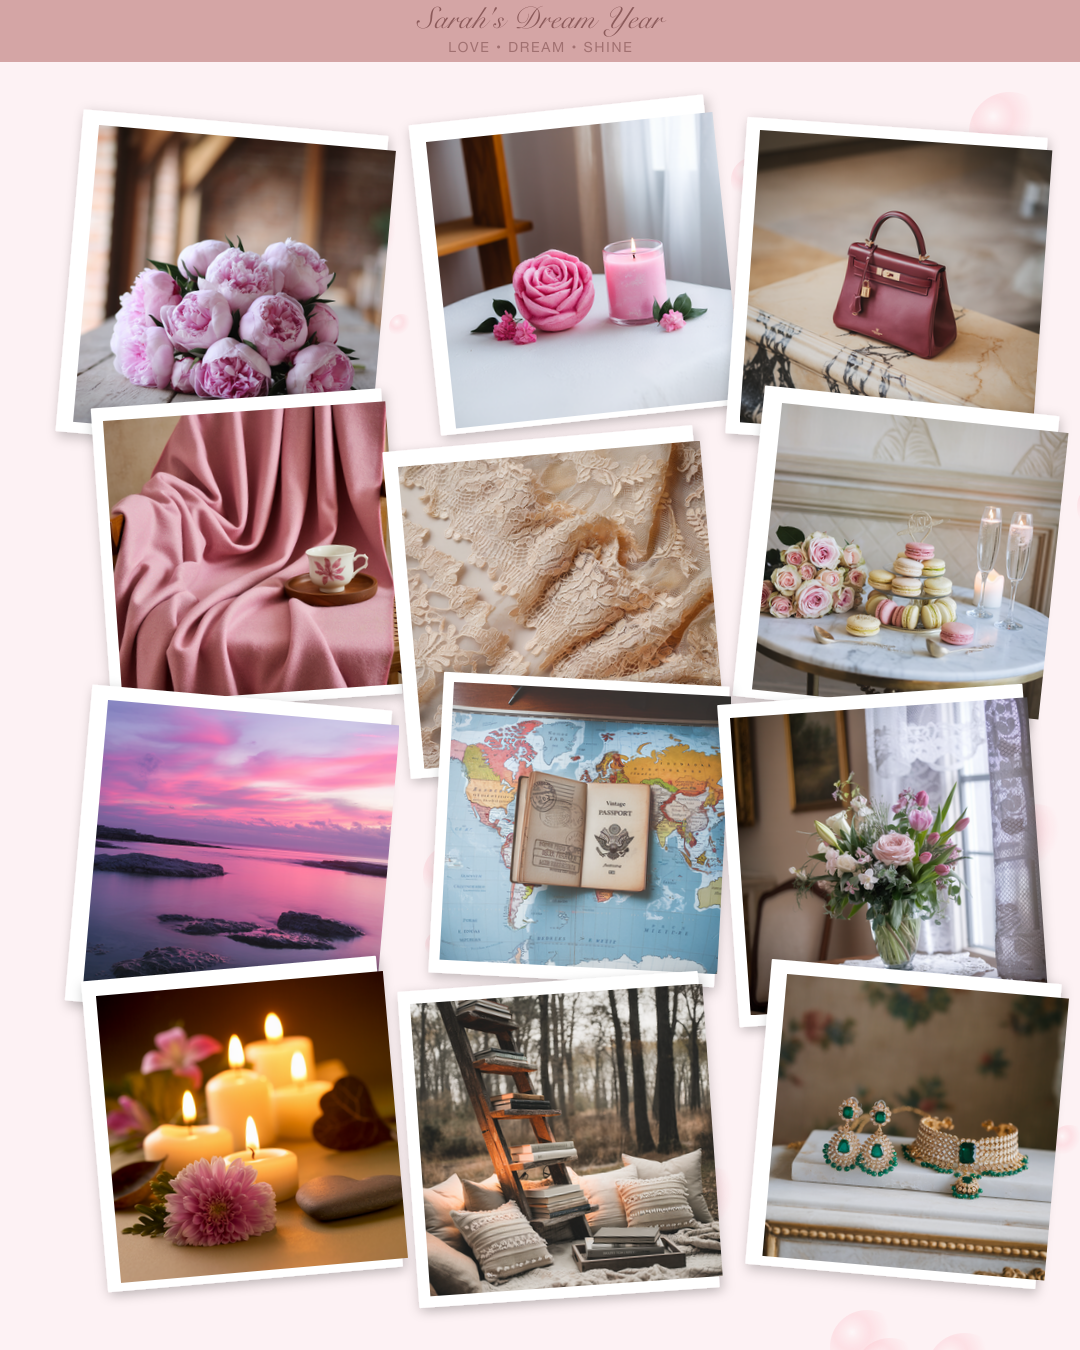
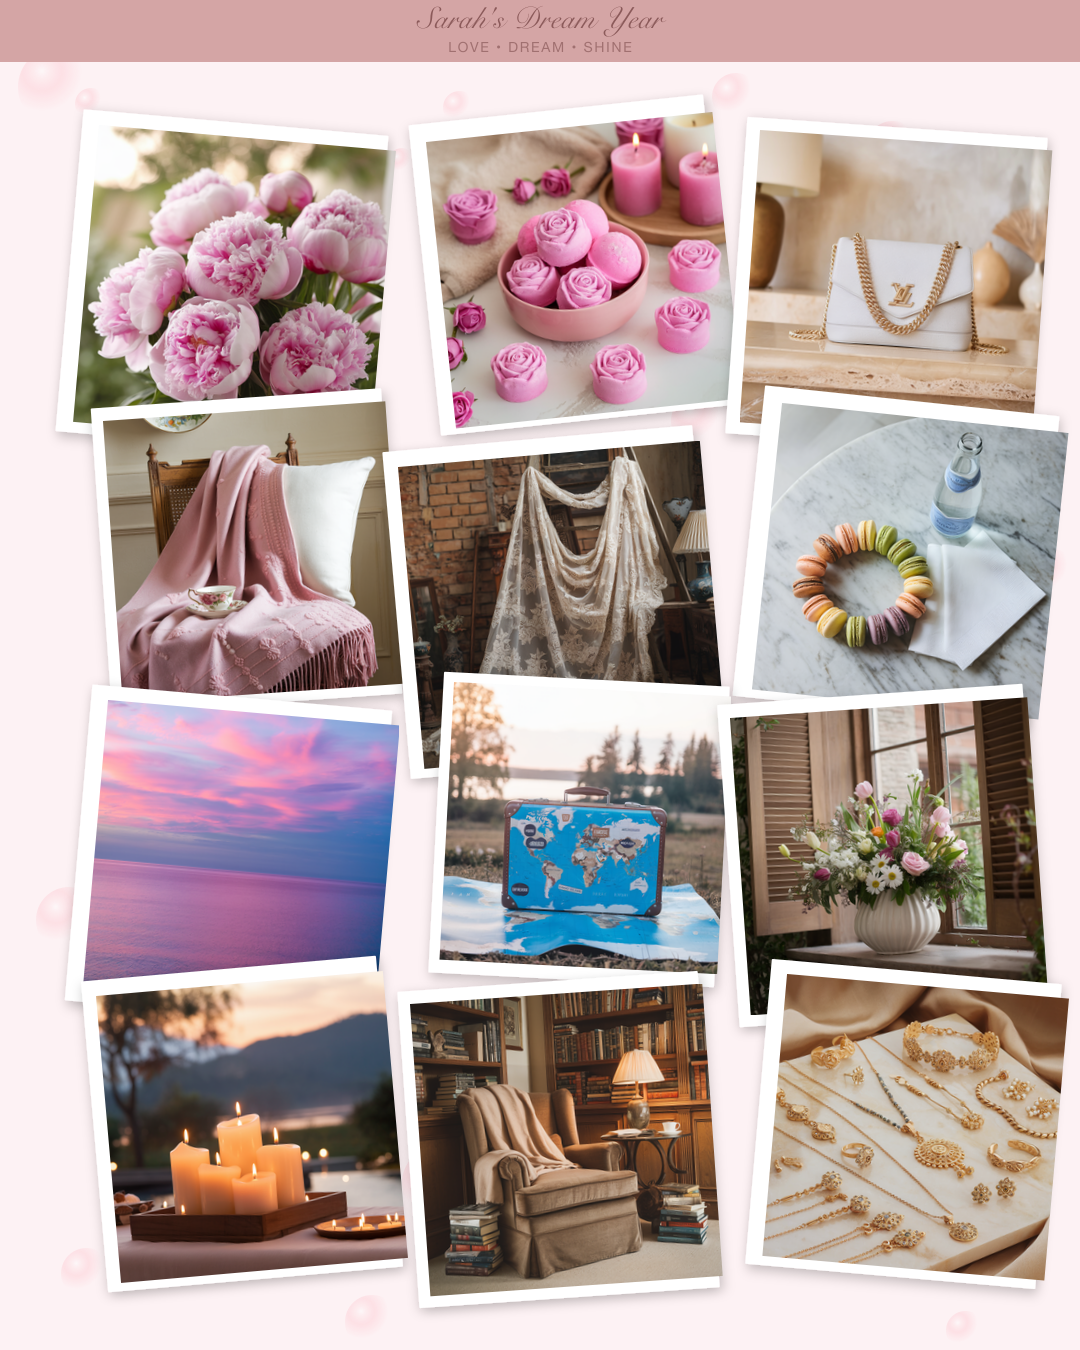
Regenerate demo vision boards - NO PEOPLE in images + Snell Roundhand font for relationship board
- Regenerated all 3 demo vision boards (male, female, relationship) with comprehensive no-people constraints
- Added 60+ negative prompt terms to prevent any humans/faces/bodies in AI-generated images
- Fixed relationship board font from Cormorant Garamond to Snell Roundhand (elegant script font)
- Male board: James "Built Different" - 12 photos (gym, watch, car, mountain, office, golf, etc.)
- Female board: Sarah "Dream Year" - 12 photos (flowers, desserts, handbag, cozy scenes, etc.)
- Relationship board: Jane & Jon "3-month Reset" - 12 photos (coffee, bicycle, romantic settings, etc.)

CRITICAL: No people/humans in any AI-generated vision board images - customers may be offended
if they see images that don't represent them.

🤖 Generated with [Claude Code](https://claude.com/claude-code)

diff --git a/src/lib/visionBoardEngineV12.js b/src/lib/visionBoardEngineV12.js
@@ -38,12 +38,12 @@ function selectFonts(style) {
   // Detect relationship/couples boards - use NEUTRAL font (not masculine smallcaps, not feminine script)
   const isRelationship = mood.includes('couple') || mood.includes('relationship') || mood.includes('together') || mood.includes('partner');
 
-  // For relationship boards: use elegant serif (Cormorant Garamond) - neither masculine nor feminine
+  // For relationship boards: use elegant Snell Roundhand script - romantic and warm
   if (isRelationship) {
     return {
-      title: "Cormorant Garamond",  // Elegant, gender-neutral serif
+      title: FONTS.script,  // Snell Roundhand - elegant script font for romantic boards
       titleTransform: 'none',
-      titleLetterSpacing: '0.05em',
+      titleLetterSpacing: '0.02em',
       quote: FONTS.serifQuote,
       text: FONTS.serifCaps
     };

diff --git a/scripts/regenerateDemoVisionBoards.js b/scripts/regenerateDemoVisionBoards.js
@@ -63,7 +63,7 @@ const DEMO_BOARDS = [
       "delicate lace fabric texture, soft feminine aesthetic",
       "macarons and sparkling water on marble table, celebration concept",  // Replaced champagne
       "ocean sunset with pink and purple sky",
-      "vintage passport on world map, travel planning",
+      "suitcase with travel stickers on world map, travel planning",
       "fresh flowers in vase by window, home decor",
       "candles lit for meditation, peaceful spa setting",
       "cozy reading nook with books and blankets",
